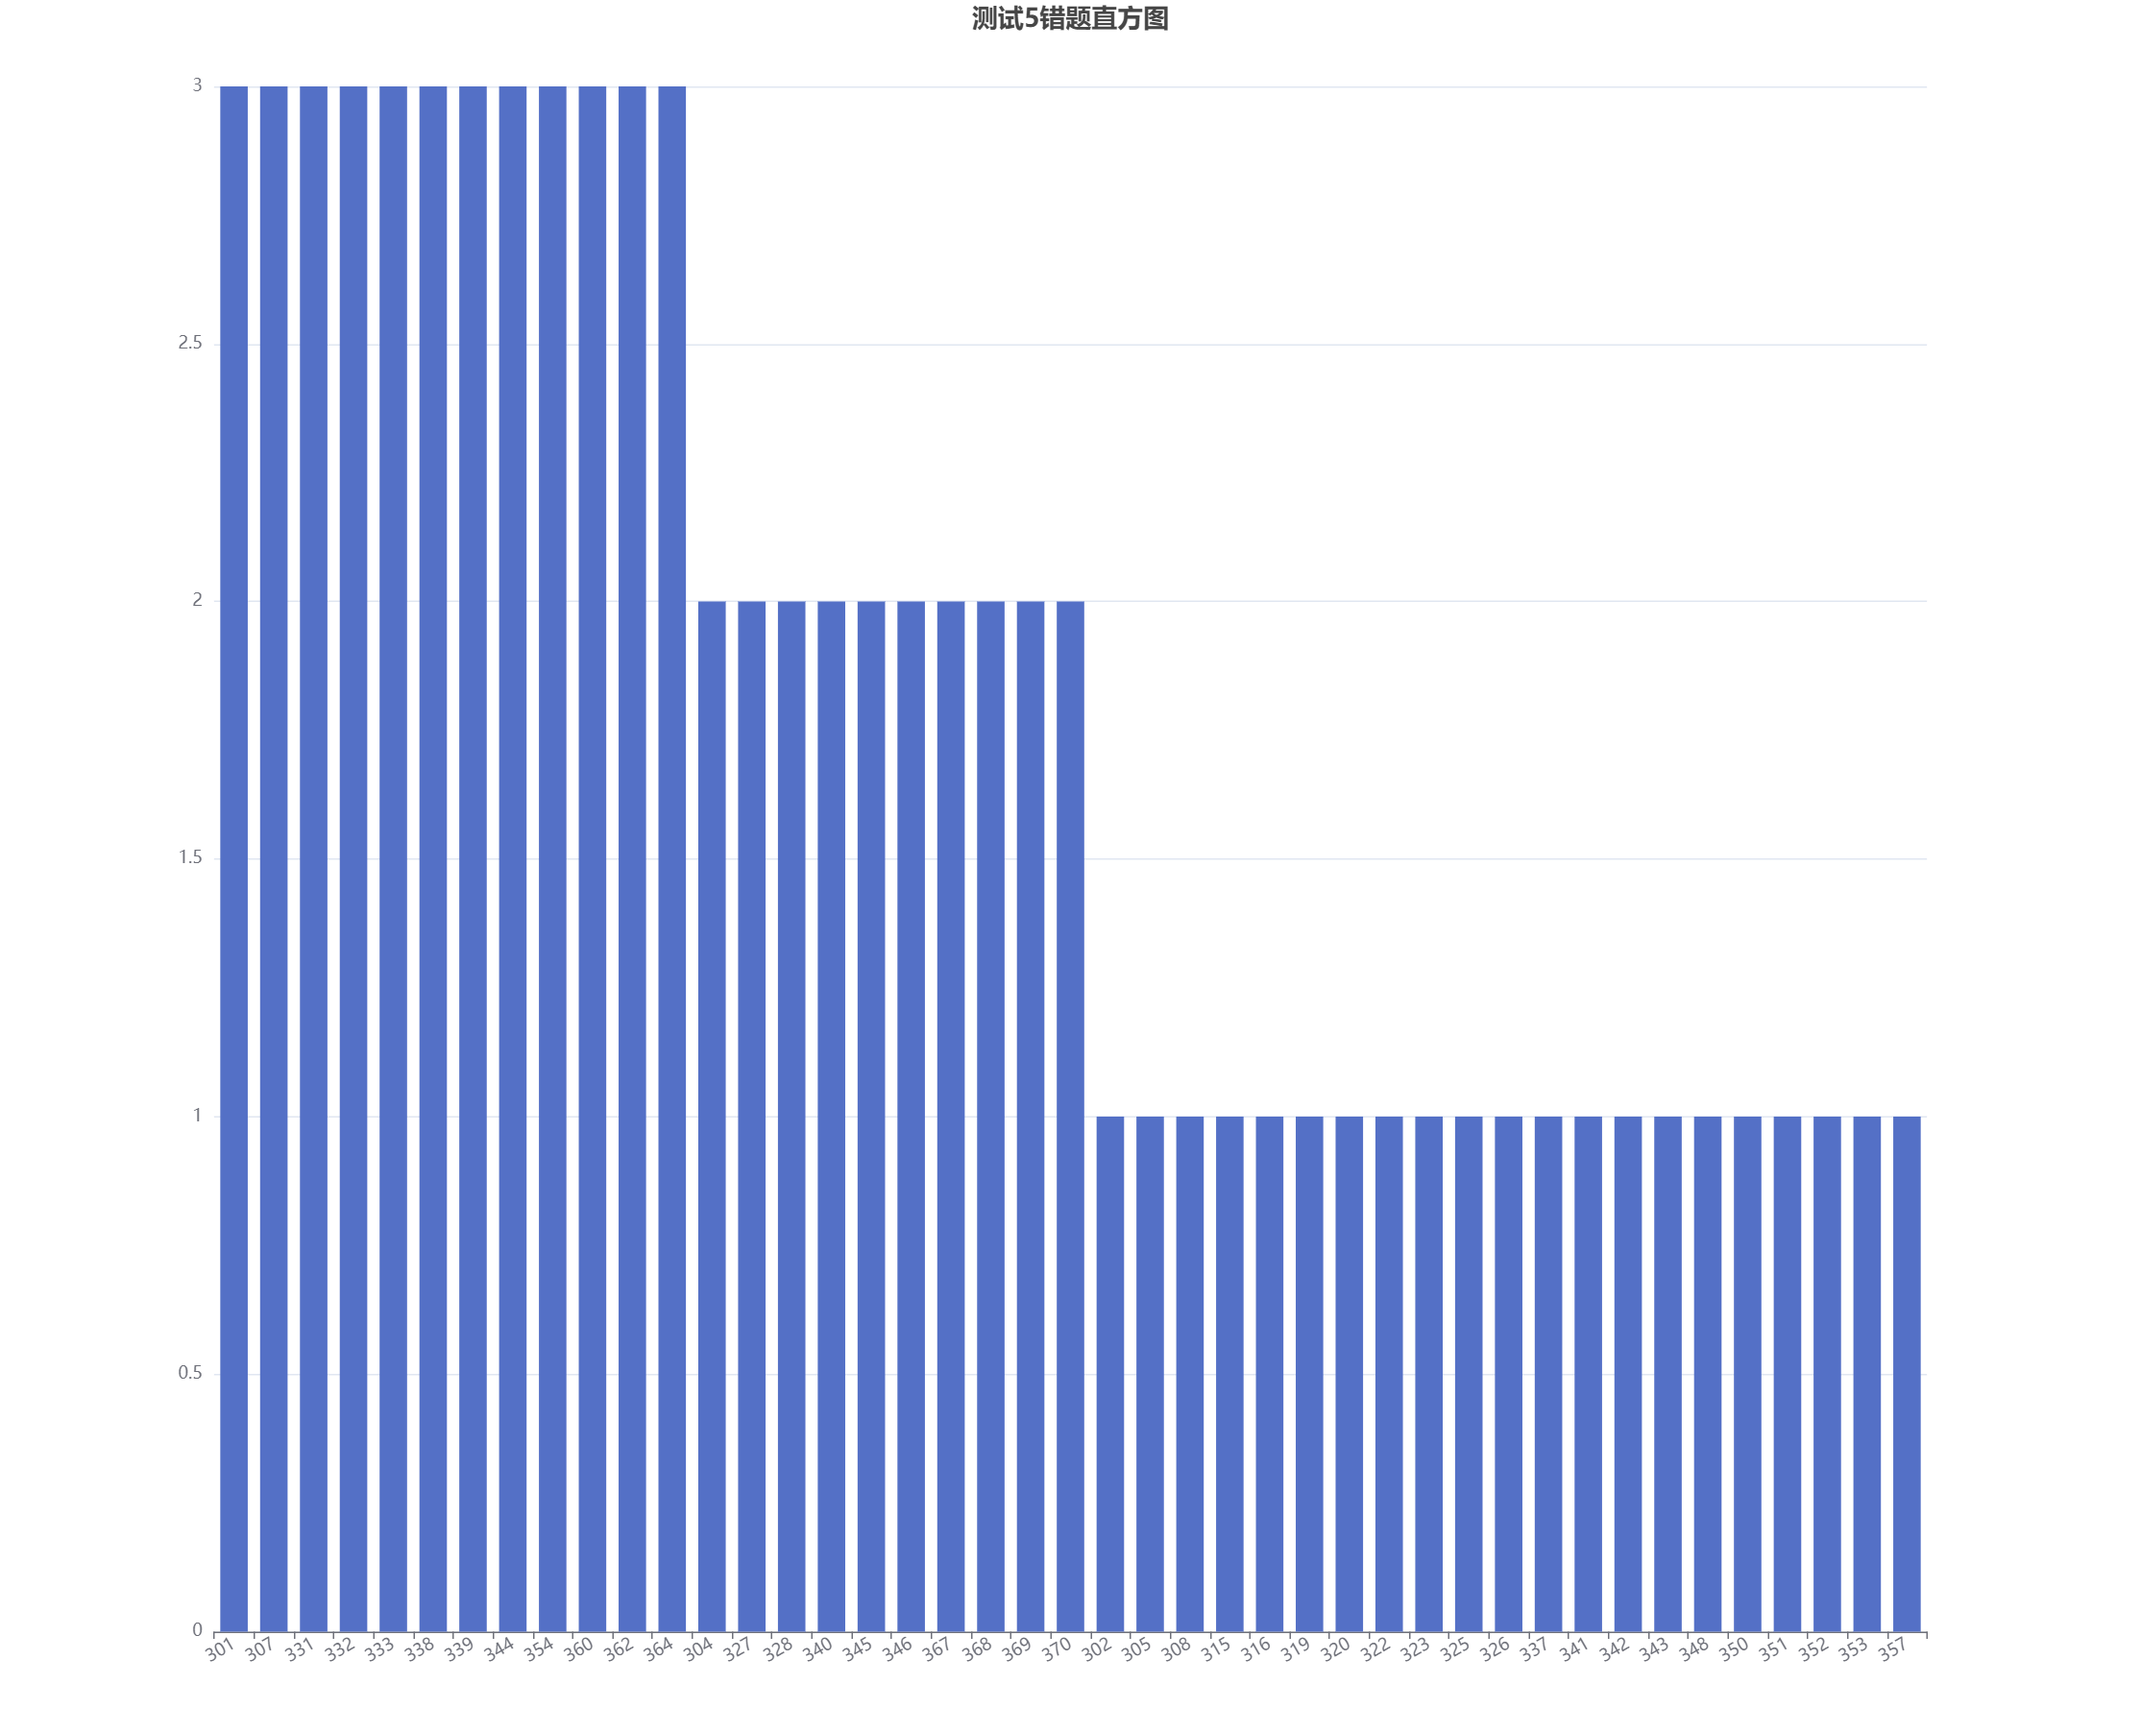
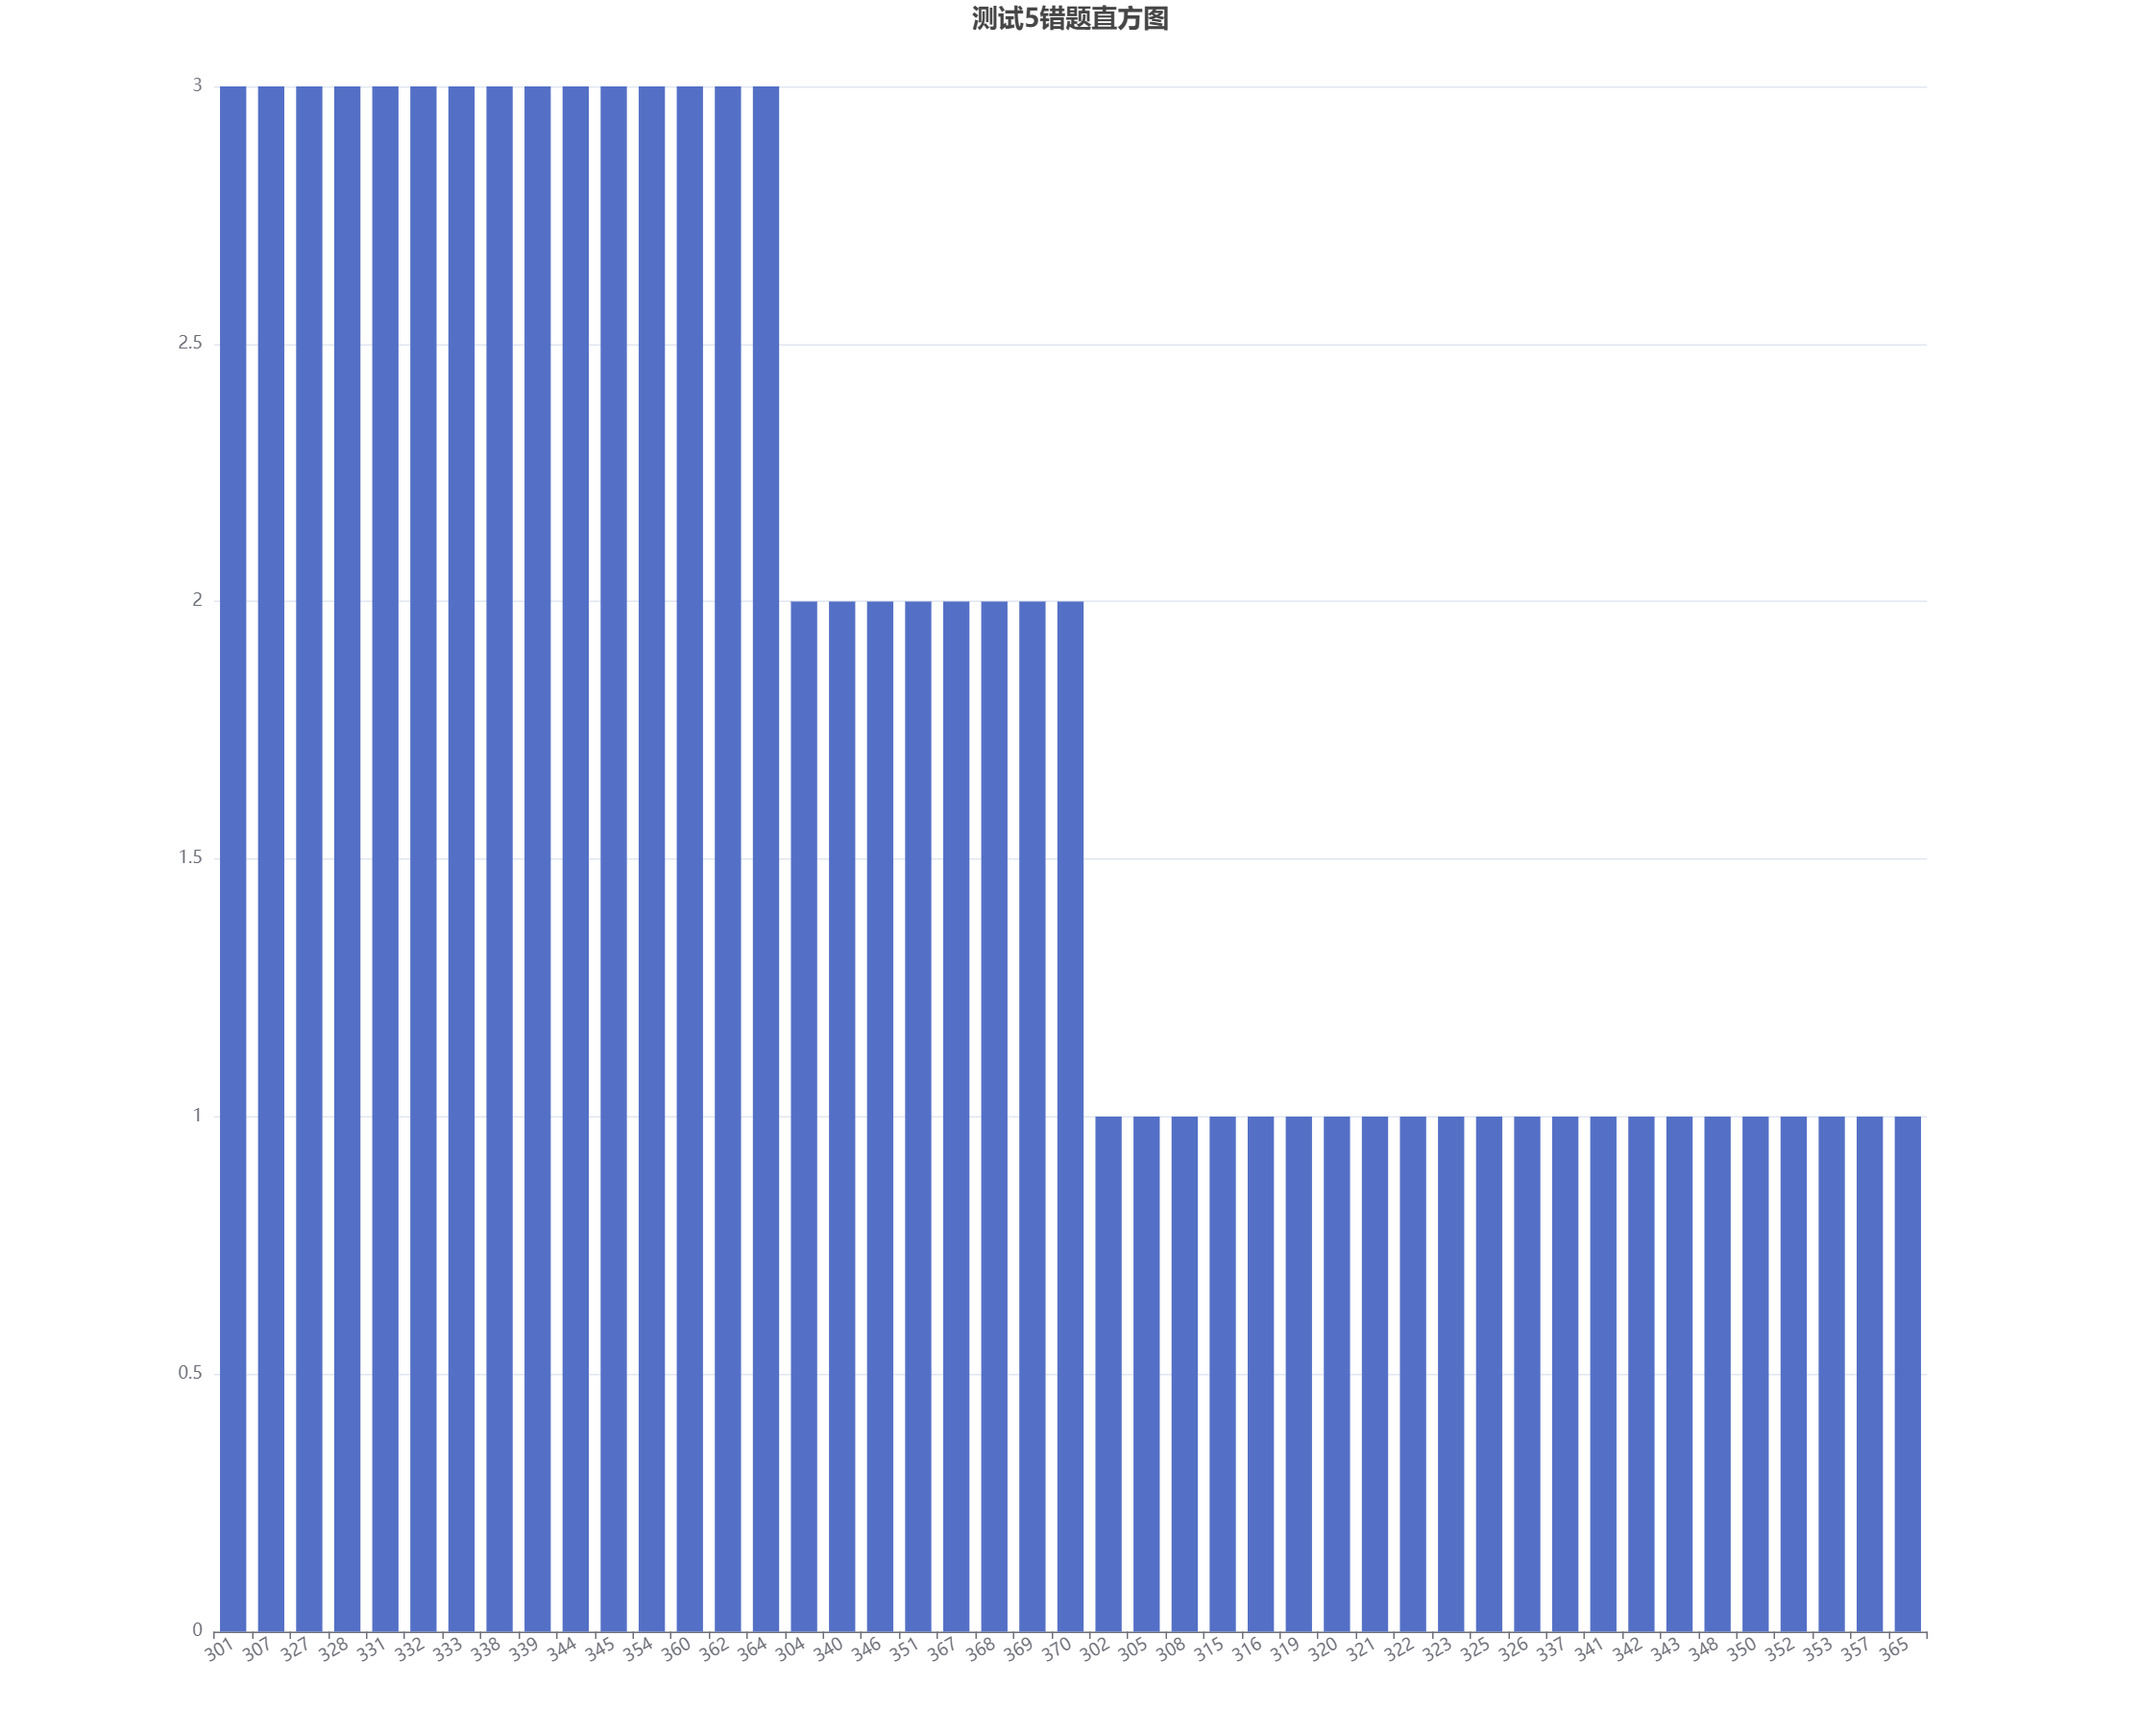
[update] up test 5 result

Changed region(s): [[0.0929, 0.031, 0.8977, 0.9623]]

diff --git a/src/testReview.js b/src/testReview.js
@@ -300,12 +300,13 @@ option = {
         ["316", 1],
         ["319", 1],
         ["320", 1],
+        ["321", 1],
         ["322", 1],
         ["323", 1],
         ["325", 1],
         ["326", 1],
-        ["327", 2],
-        ["328", 2],
+        ["327", 3],
+        ["328", 3],
         ["331", 3],
         ["332", 3],
         ["333", 3],
@@ -317,11 +318,11 @@ option = {
         ["342", 1],
         ["343", 1],
         ["344", 3],
-        ["345", 2],
+        ["345", 3],
         ["346", 2],
         ["348", 1],
         ["350", 1],
-        ["351", 1],
+        ["351", 2],
         ["352", 1],
         ["353", 1],
         ["354", 3],
@@ -329,6 +330,7 @@ option = {
         ["360", 3],
         ["362", 3],
         ["364", 3],
+        ["365", 1],
         ["367", 2],
         ["368", 2],
         ["369", 2],

diff --git a/src/correctRate.js b/src/correctRate.js
@@ -170,7 +170,7 @@ option = {
   },
   xAxis: {
     type: "category",
-    data: ["第一回", "第二回", "第三回", "第四回"],
+    data: ["第一回", "第二回", "第三回", "第四回", "第五回"],
   },
   yAxis: {
     type: "value",
@@ -181,7 +181,7 @@ option = {
   },
   series: [
     {
-      data: [60.0, 68.0, 82.7, 85.3],
+      data: [60.0, 68.0, 82.7, 85.3, 92],
       type: "line",
       markLine: {
         symbol: ["none", "none"],

diff --git a/高频错题集/README.md b/高频错题集/README.md
@@ -971,3 +971,47 @@
        第235题，答案C。
 
     </details>
+
+73. A company hosts a game player-matching service on a public facing, physical, on-premises instance that all users are able to access over the internet. All traffic to the instance uses UDP. The company wants to migrate the service to AWS and provide a high level of security. A solutions architect needs to design a solution for the player-matching service using AWS. Which combination of steps should the solutions architect take to meet these requirements? (Choose three.)
+    - [ ] A. Use a Network Load Balancer (NLB) in front of the player-matching instance. Use a friendly DNS entry in Amazon Route 53 pointing to the NLB’s Elastic IP address.
+    - [ ] B. Use an Application Load Balancer (ALB) in front of the player-matching instance. Use a friendly DNS entry in Amazon Route 53 pointing to the ALB’s internet- facing fully qualified domain name (FQDN).
+    - [ ] C. Define an AWS WAF rule to explicitly drop non-UDP traffic, and associate the rule with the load balancer.
+    - [ ] D. Configure a network ACL rule to block all non-UDP traffic. Associate the network ACL with the subnets that hold the load balancer instances.
+    - [ ] E. Use Amazon CloudFront with an Elastic Load Balancer as an origin.
+    - [ ] F. Enable AWS Shield Advanced on all public-facing resources.
+
+    <details>
+       <summary>Answer</summary>
+
+       第327题，答案ADF。
+
+    </details>
+
+74. A company has multiple AWS accounts and manages these accounts which AWS Organizations. A developer was given IAM user credentials to access AWS resources. The developer should have read-only access to all Amazon S3 buckets in the account. However, when the developer tries to access the S3 buckets from the console, they receive an access denied error message with no bucket listed. A solution architect reviews the permissions and finds that the developer’s IAM user is listed as having read-only access to all S3 buckets in the account. Which additional steps should the solutions architect take to troubleshoot the issue? (Choose two.)
+    - [ ] A. Check the bucket policies for all S3 buckets.
+    - [ ] B. Check the ACLs for all S3 buckets.
+    - [ ] C. Check the SCPs set at the organizational units (OUs).
+    - [ ] D. Check for the permissions boundaries set for the IAM user.
+    - [ ] E. Check if an appropriate IAM role is attached to the IAM user.
+
+    <details>
+       <summary>Answer</summary>
+
+       第328题，答案CD。
+
+    </details>
+
+75. A company is launching a web-based application in multiple regions around the world. The application consists of both static content stored in a private Amazon S3 bucket and dynamic content hosted in Amazon ECS containers content behind an Application Load Balancer (ALB). The company requires that the static and dynamic application content be accessible through Amazon CloudFront only. Which combination of steps should a solutions architect recommend to restrict direct content access to CloudFront? (Choose three.)
+    - [ ] A. Create a web ACL in AWS WAF with a rule to validate the presence of a custom header and associate the web ACL with the ALB.
+    - [ ] B. Create a web ACL in AWS WAF with a rule to validate the presence of a custom header and associate the web ACL with the CloudFront distribution.
+    - [ ] C. Configure CloudFront to add a custom header to origin requests.
+    - [ ] D. Configure the ALB to add a custom header to HTTP requests.
+    - [ ] E. Update the S3 bucket ACL to allow access from the CloudFront distribution only.
+    - [ ] F. Create a CloudFront Origin Access Identity (OAI) and add it to the CloudFront distribution. Update the S3 bucket policy to allow access to the OAI only.
+
+    <details>
+       <summary>Answer</summary>
+
+       第345题，答案ACF。
+
+    </details>
